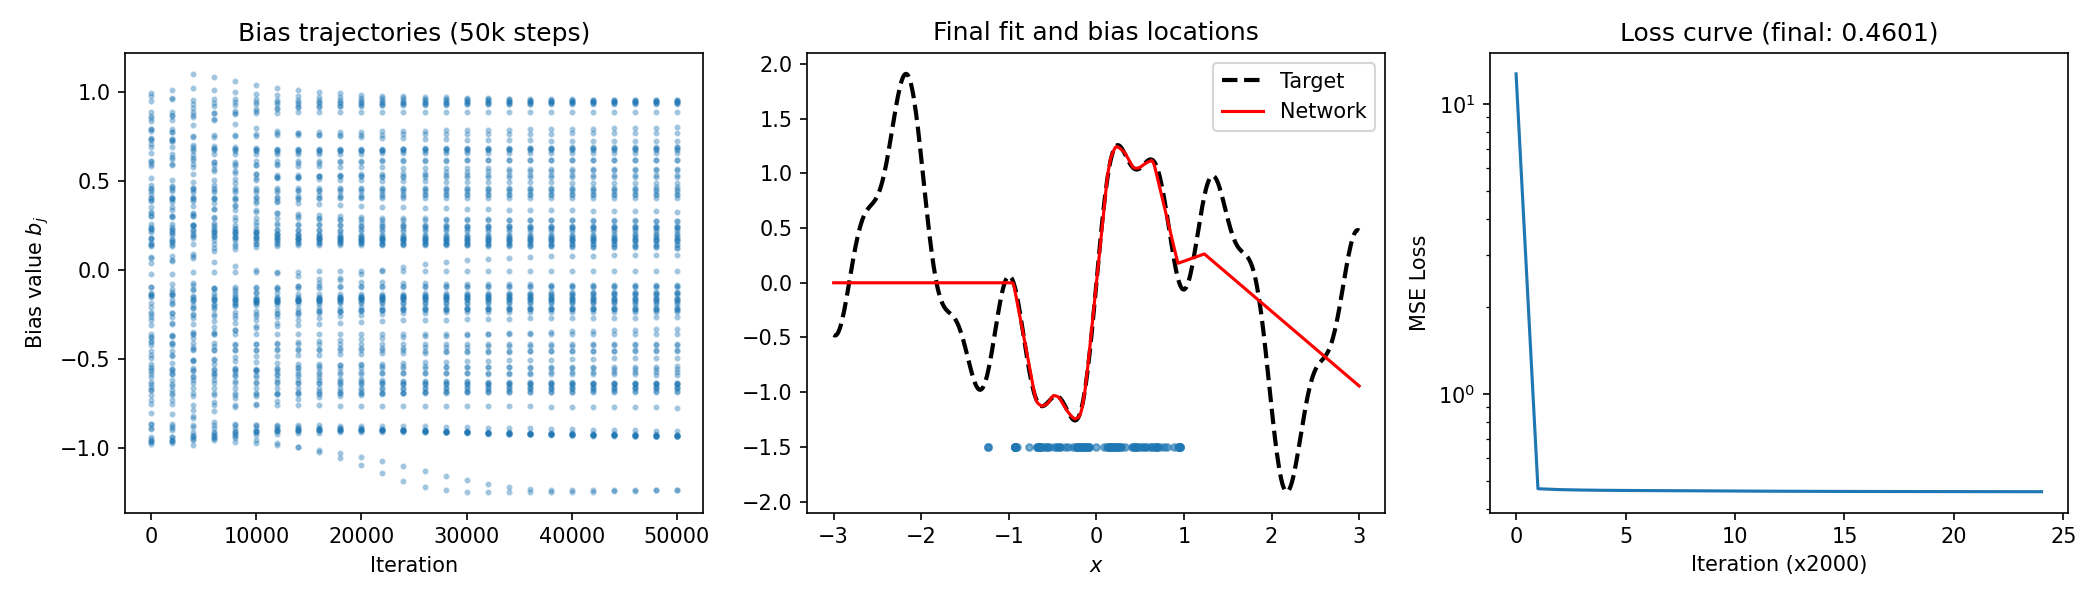
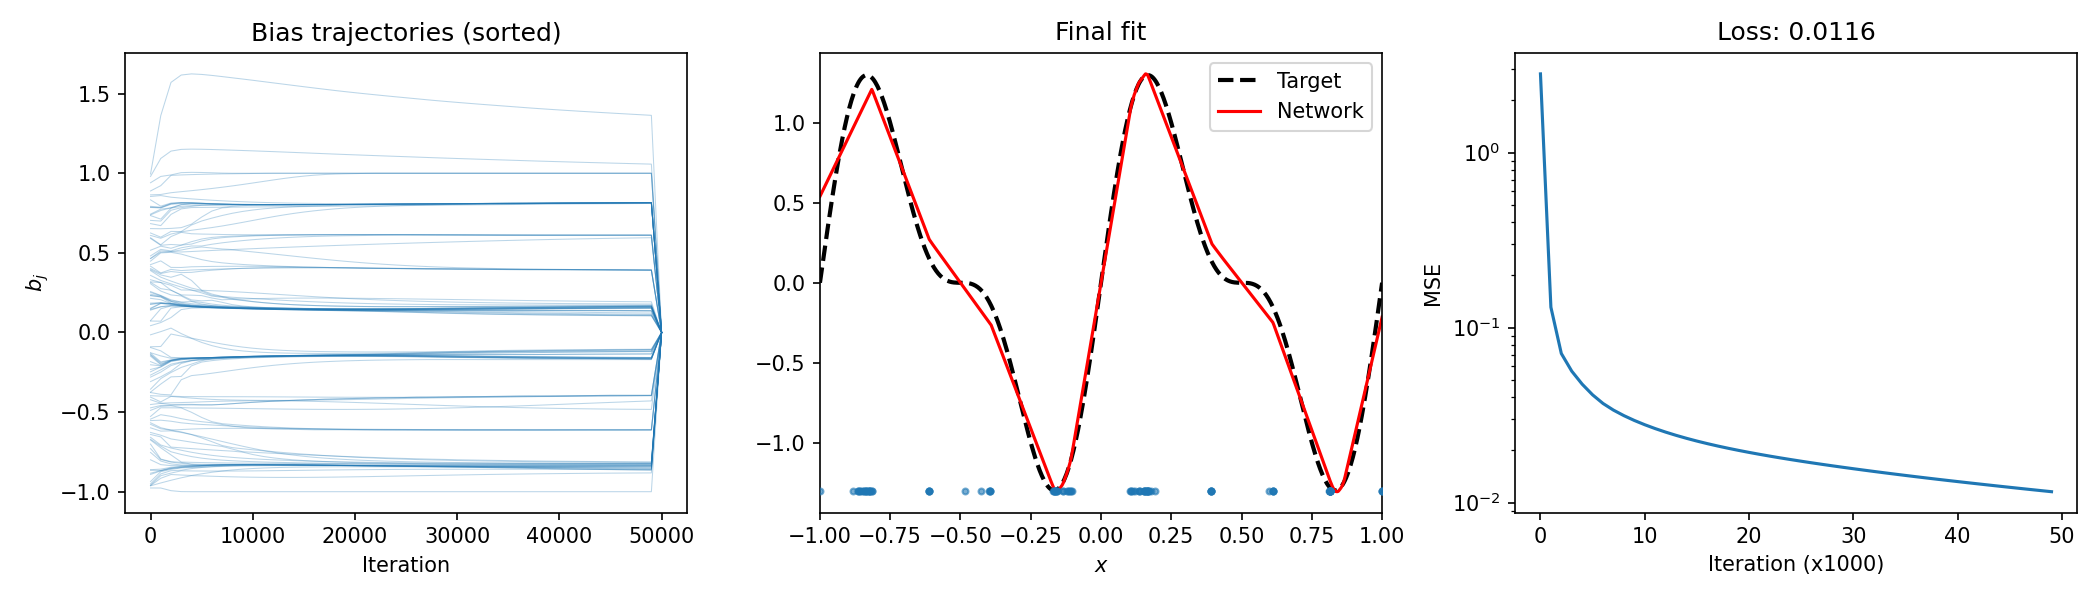
Update bias demo: domain (-1,1), sorted continuous trajectories, better target

diff --git a/docs/lectures/11-open-problems/README.md b/docs/lectures/11-open-problems/README.md
@@ -309,54 +309,55 @@ Train a 1D shallow ReLU network $f(x) = \sum_{j=1}^m a_j \sigma(w_j x + b_j)$ on
 import numpy as np
 import matplotlib.pyplot as plt
 
-def train_and_track_biases(m=100, steps=50000, lr=0.01):
-    np.random.seed(0)
-    x = np.linspace(-3, 3, 500)
-    f_star = np.sin(2 * x) + 0.7 * np.sin(5 * x) + 0.3 * np.sin(11 * x)
+np.random.seed(0)
+m = 100
+steps = 50000
+lr = 0.01
 
-    a = np.random.randn(m) * 0.5
-    b = np.random.uniform(-1, 1, m)
-    w = np.ones(m)
+x = np.linspace(-1, 1, 500)
+f_star = np.sin(2 * np.pi * x) + 0.5 * np.sin(4 * np.pi * x)
 
-    bias_log = [b.copy()]
-    loss_log = []
-    for t in range(steps):
-        z = w * x[:, None] + b[None, :]
-        h = np.maximum(0, z)
-        f = h @ a
-        residual = f - f_star
-        loss = np.mean(residual ** 2)
-        a -= lr * h.T @ residual / len(x)
-        b -= lr * (a[None, :] * (z > 0)).T @ residual / len(x)
-        if t % 2000 == 0:
-            bias_log.append(b.copy())
-            loss_log.append(loss)
+a = np.random.randn(m) * 0.5
+b = np.sort(np.random.uniform(-1, 1, m))
+w = np.ones(m)
 
-    return b, bias_log, f, f_star, x, loss_log
+b_log = np.zeros((steps // 1000 + 1, m))
+b_log[0] = b
+loss_log = []
 
-b, hist, f, f_star, x, loss_log = train_and_track_biases()
+for t in range(steps):
+    z = w * x[:, None] + b[None, :]
+    h = np.maximum(0, z)
+    f = h @ a
+    residual = f - f_star
+    loss = np.mean(residual ** 2)
+    a -= lr * h.T @ residual / len(x)
+    b -= lr * (a[None, :] * (z > 0)).T @ residual / len(x)
+    if t % 1000 == 0:
+        b_log[t // 1000] = np.sort(b)
+        loss_log.append(loss)
 
 plt.figure(figsize=(14, 4))
 plt.subplot(131)
-for i, bh in enumerate(hist):
-    plt.scatter(np.full(len(bh), i * 2000), bh, s=4, alpha=0.3, color='C0')
+for j in range(m):
+    plt.plot(np.arange(len(b_log)) * 1000, b_log[:, j], lw=0.5, alpha=0.3, color='C0')
 plt.xlabel('Iteration')
-plt.ylabel('Bias value $b_j$')
-plt.title('Bias trajectories')
+plt.ylabel('$b_j$')
+plt.title('Bias trajectories (sorted)')
 
 plt.subplot(132)
-plt.plot(x, f_star, 'k--', linewidth=2, label='Target')
-plt.plot(x, f, 'r-', linewidth=1.5, label='Network')
-plt.scatter(b, np.full_like(b, -1.5), s=10, color='C0', alpha=0.6, zorder=3)
+plt.plot(x, f_star, 'k--', lw=2, label='Target')
+plt.plot(x, f, 'r-', lw=1.5, label='Network')
+plt.scatter(b, np.full_like(b, -1.3), s=8, color='C0', alpha=0.6, zorder=3)
+plt.xlim(-1, 1)
 plt.xlabel('$x$')
 plt.legend()
-plt.title('Final fit and bias locations')
+plt.title('Final fit')
 
 plt.subplot(133)
 plt.semilogy(loss_log)
-plt.xlabel('Iteration (x2000)')
-plt.ylabel('MSE Loss')
-plt.title('Loss curve')
+plt.xlabel('Iteration (x1000)')
+plt.ylabel('MSE')
 plt.tight_layout()
 ```
 
